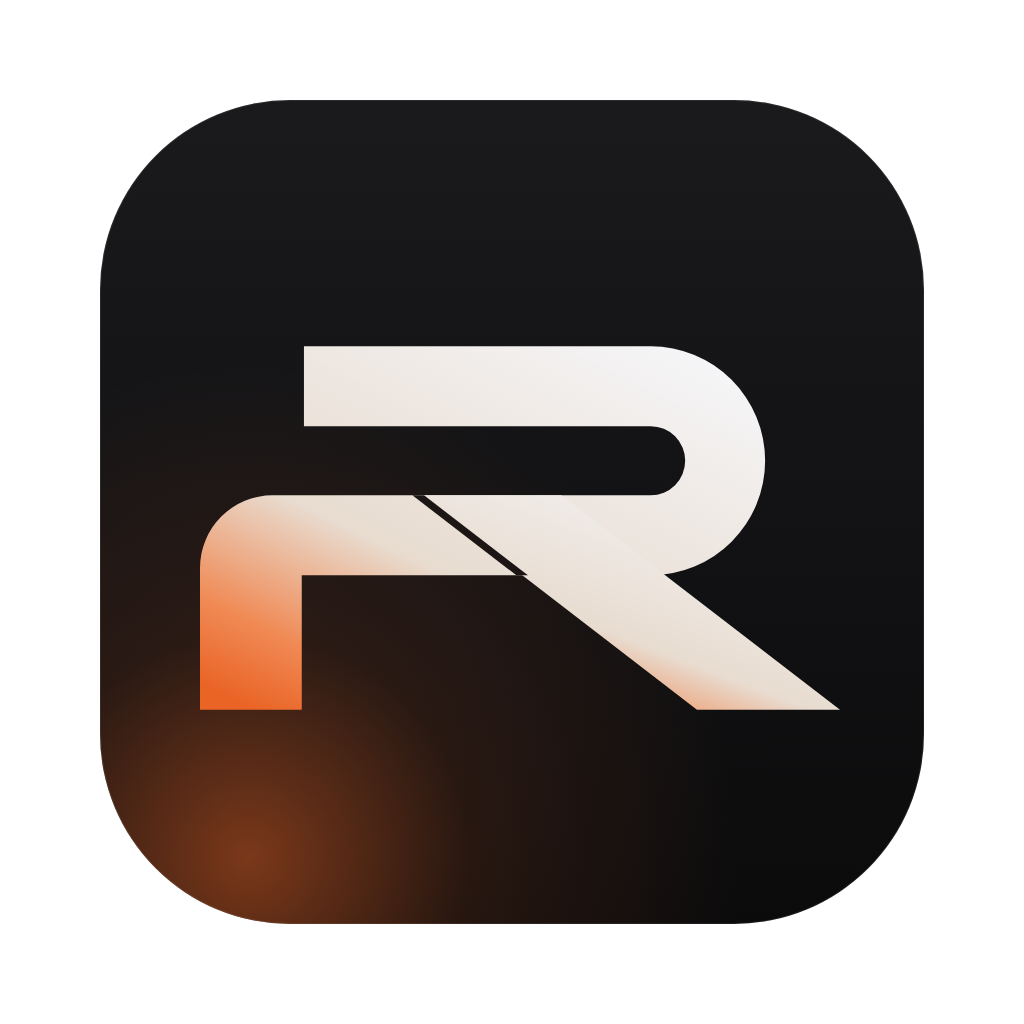
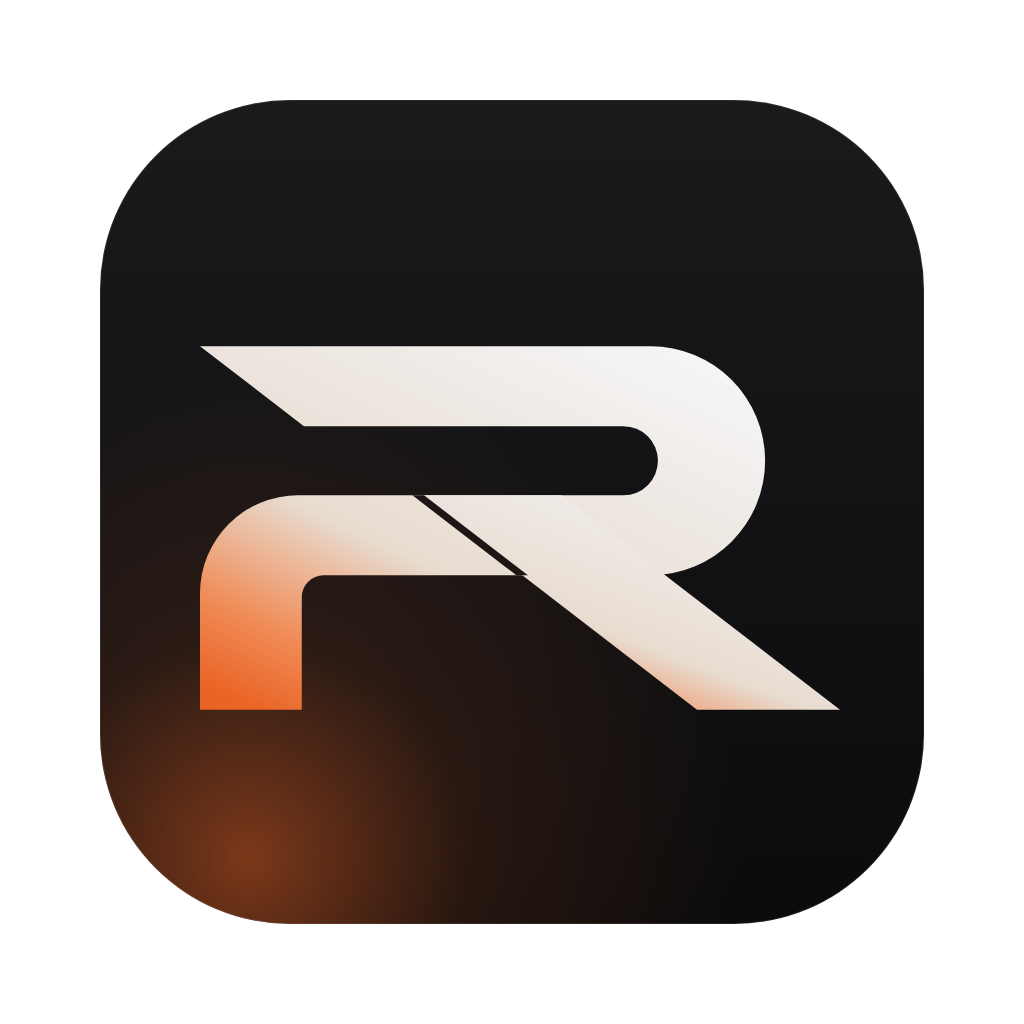
Rift Motion: o R igual à arte
A ponta de cima do R corta na diagonal (saía reta), o lado direito do bojo fica mais
grosso que as barras, o canto da haste mais redondo e um arredondado pequeno onde a
haste encontra a barra. Conferido sobrepondo o vetor à arte. Ícones, RIFT e protótipo
regerados.

Claude-Session: https://claude.ai/code/session_01EAKxGRczeQoUrK5G2TN5z1

diff --git a/products/rift-motion/prototipo.html b/products/rift-motion/prototipo.html
@@ -352,8 +352,8 @@ button { font: inherit; color: inherit; }
 <header class="nav">
   <div class="wrap nav__in">
     <a class="brand" href="#inicio" aria-label="Página inicial">
-      <span class="app-icon" aria-hidden="true"><svg class="r-mark" viewBox="-2 -2 180.1 104" aria-hidden="true"><path class="r-bojo" d="M28.6 0 L124 0 A31.5 31.5 0 0 1 124 63 L28 63 L28 100 L0 100 L0 61 A20 20 0 0 1 20 41 L124 41 A9.5 9.5 0 0 0 124 22 L28.6 22 Z"/><path class="r-perna" d="M60.04 41 L99.4 41 L176.1 100 L136.74 100 Z"/></svg></span>
-      <svg class="rift-wm" viewBox="-2 -2 480.1 104" role="img" aria-label="Rift Motion"><defs><mask id="riftFenda" maskUnits="userSpaceOnUse" x="-10" y="-10" width="496.1" height="120"><rect x="-10" y="-10" width="496.1" height="120" fill="#fff"/><path d="M58.44 41 L61.64 41 L90.24 63 L87.04 63 Z" fill="#000"/><path d="M184.1 84 C198.1 76, 210.1 30, 230.1 14" fill="none" stroke="#000" stroke-width="3.2" stroke-linecap="round"/></mask></defs><g fill="currentColor" mask="url(#riftFenda)"><path d="M28.6 0 L124 0 A31.5 31.5 0 0 1 124 63 L28 63 L28 100 L0 100 L0 61 A20 20 0 0 1 20 41 L124 41 A9.5 9.5 0 0 0 124 22 L28.6 22 Z"/><path d="M60.04 41 L99.4 41 L176.1 100 L136.74 100 Z"/><path d="M192.1 0 L220.1 0 L220.1 100 L192.1 100 Z"/><path d="M252.1 0 L476.1 0 L476.1 22 L252.1 22 Z"/><path d="M252.1 0 L280.1 0 L280.1 100 L252.1 100 Z"/><path d="M252.1 42 L346.1 42 L346.1 64 L252.1 64 Z"/><path d="M391.1 0 L419.1 0 L419.1 100 L391.1 100 Z"/></g></svg>
+      <span class="app-icon" aria-hidden="true"><svg class="r-mark" viewBox="-2 -2 180.1 104" aria-hidden="true"><path class="r-bojo" d="M0 0 L124 0 A31.5 31.5 0 0 1 124 63 L34 63 A6 6 0 0 0 28 69 L28 100 L0 100 L0 68 A27 27 0 0 1 27 41 L116.5 41 A9.5 9.5 0 0 0 116.5 22 L28.6 22 Z"/><path class="r-perna" d="M60.04 41 L99.4 41 L176.1 100 L136.74 100 Z"/></svg></span>
+      <svg class="rift-wm" viewBox="-2 -2 480.1 104" role="img" aria-label="Rift Motion"><defs><mask id="riftFenda" maskUnits="userSpaceOnUse" x="-10" y="-10" width="496.1" height="120"><rect x="-10" y="-10" width="496.1" height="120" fill="#fff"/><path d="M58.44 41 L61.64 41 L90.24 63 L87.04 63 Z" fill="#000"/><path d="M184.1 84 C198.1 76, 210.1 30, 230.1 14" fill="none" stroke="#000" stroke-width="3.2" stroke-linecap="round"/></mask></defs><g fill="currentColor" mask="url(#riftFenda)"><path d="M0 0 L124 0 A31.5 31.5 0 0 1 124 63 L34 63 A6 6 0 0 0 28 69 L28 100 L0 100 L0 68 A27 27 0 0 1 27 41 L116.5 41 A9.5 9.5 0 0 0 116.5 22 L28.6 22 Z"/><path d="M60.04 41 L99.4 41 L176.1 100 L136.74 100 Z"/><path d="M192.1 0 L220.1 0 L220.1 100 L192.1 100 Z"/><path d="M252.1 0 L476.1 0 L476.1 22 L252.1 22 Z"/><path d="M252.1 0 L280.1 0 L280.1 100 L252.1 100 Z"/><path d="M252.1 42 L346.1 42 L346.1 64 L252.1 64 Z"/><path d="M391.1 0 L419.1 0 L419.1 100 L391.1 100 Z"/></g></svg>
     </a>
     <nav class="nav__links" aria-label="Principal">
       <a href="#inicio" class="hide-sm" data-route="inicio">Início</a>
@@ -483,7 +483,7 @@ button { font: inherit; color: inherit; }
     </div>
     <div class="flow">
       <div class="flow__line" aria-hidden="true"><div class="flow__pulse"></div></div>
-      <div class="node"><div class="node__ic"><span class="app-icon" style="width:40px;height:40px;border-radius:11px"><svg class="r-mark" viewBox="-2 -2 180.1 104" aria-hidden="true"><path class="r-bojo" d="M28.6 0 L124 0 A31.5 31.5 0 0 1 124 63 L28 63 L28 100 L0 100 L0 61 A20 20 0 0 1 20 41 L124 41 A9.5 9.5 0 0 0 124 22 L28.6 22 Z"/><path class="r-perna" d="M60.04 41 L99.4 41 L176.1 100 L136.74 100 Z"/></svg></span></div><h3>Rift Motion</h3><p>Abertura · 6 s · 23,976</p></div>
+      <div class="node"><div class="node__ic"><span class="app-icon" style="width:40px;height:40px;border-radius:11px"><svg class="r-mark" viewBox="-2 -2 180.1 104" aria-hidden="true"><path class="r-bojo" d="M0 0 L124 0 A31.5 31.5 0 0 1 124 63 L34 63 A6 6 0 0 0 28 69 L28 100 L0 100 L0 68 A27 27 0 0 1 27 41 L116.5 41 A9.5 9.5 0 0 0 116.5 22 L28.6 22 Z"/><path class="r-perna" d="M60.04 41 L99.4 41 L176.1 100 L136.74 100 Z"/></svg></span></div><h3>Rift Motion</h3><p>Abertura · 6 s · 23,976</p></div>
       <div class="node"><div class="node__ic"><span class="relay-badge"><i></i></span></div><h3>Relay</h3><p>ProRes 4444 com alfa</p></div>
       <div class="node"><div class="node__ic"><span class="dot" style="width:22px;height:22px;background:linear-gradient(140deg,#0a84ff,#7c5cff)"></span></div><h3>SOBEDESCE</h3><p>Sobe pro Drive, MD5 conferido</p></div>
       <div class="node"><div class="node__ic" style="font-size:.78rem">DaVinci</div><h3>DaVinci Resolve</h3>
@@ -510,7 +510,7 @@ button { font: inherit; color: inherit; }
   <section class="login">
     <canvas id="loginCanvas" aria-hidden="true"></canvas>
     <div class="login__card">
-      <span class="app-icon login__icon" aria-hidden="true"><svg class="r-mark" viewBox="-2 -2 180.1 104" aria-hidden="true"><path class="r-bojo" d="M28.6 0 L124 0 A31.5 31.5 0 0 1 124 63 L28 63 L28 100 L0 100 L0 61 A20 20 0 0 1 20 41 L124 41 A9.5 9.5 0 0 0 124 22 L28.6 22 Z"/><path class="r-perna" d="M60.04 41 L99.4 41 L176.1 100 L136.74 100 Z"/><path class="r-fenda" d="M60.04 41 L88.64 63" fill="none"/></svg></span>
+      <span class="app-icon login__icon" aria-hidden="true"><svg class="r-mark" viewBox="-2 -2 180.1 104" aria-hidden="true"><path class="r-bojo" d="M0 0 L124 0 A31.5 31.5 0 0 1 124 63 L34 63 A6 6 0 0 0 28 69 L28 100 L0 100 L0 68 A27 27 0 0 1 27 41 L116.5 41 A9.5 9.5 0 0 0 116.5 22 L28.6 22 Z"/><path class="r-perna" d="M60.04 41 L99.4 41 L176.1 100 L136.74 100 Z"/><path class="r-fenda" d="M60.04 41 L88.64 63" fill="none"/></svg></span>
       <h1 class="t"><span>Entrar no</span><br><b class="login__name" id="loginName">Rift</b></h1>
       <p class="sub" style="font-size:.95rem">Uma conta para todo o ecossistema.</p>
       <div class="login__btns">
@@ -528,7 +528,7 @@ button { font: inherit; color: inherit; }
 <main class="view" id="v-estudio" hidden>
   <div class="studio">
     <div class="st-top">
-      <span class="app-icon" style="width:26px;height:26px;border-radius:7px" aria-hidden="true"><svg class="r-mark" viewBox="-2 -2 180.1 104" aria-hidden="true"><path class="r-bojo" d="M28.6 0 L124 0 A31.5 31.5 0 0 1 124 63 L28 63 L28 100 L0 100 L0 61 A20 20 0 0 1 20 41 L124 41 A9.5 9.5 0 0 0 124 22 L28.6 22 Z"/><path class="r-perna" d="M60.04 41 L99.4 41 L176.1 100 L136.74 100 Z"/></svg></span>
+      <span class="app-icon" style="width:26px;height:26px;border-radius:7px" aria-hidden="true"><svg class="r-mark" viewBox="-2 -2 180.1 104" aria-hidden="true"><path class="r-bojo" d="M0 0 L124 0 A31.5 31.5 0 0 1 124 63 L34 63 A6 6 0 0 0 28 69 L28 100 L0 100 L0 68 A27 27 0 0 1 27 41 L116.5 41 A9.5 9.5 0 0 0 116.5 22 L28.6 22 Z"/><path class="r-perna" d="M60.04 41 L99.4 41 L176.1 100 L136.74 100 Z"/></svg></span>
       <h2>Abertura · Campanha Verão</h2>
       <span class="meta mono">1920 × 1080 · 6 s</span>
       <span class="spacer"></span>

diff --git a/products/rift-motion/marca/vetorizar.py b/products/rift-motion/marca/vetorizar.py
@@ -41,17 +41,24 @@ XR = 124.0  # centro do bojo
 RB = 31.5  # raio de fora do bojo (bojo com 63 de altura: barra, miolo, barra)
 RI = RB - SH  # raio do miolo
 YM = 2 * RB - SH  # topo da barra do meio (41)
-CANTO = 20.0  # canto arredondado entre a barra do meio e a haste
+CANTO = 27.0  # canto arredondado entre a barra do meio e a haste (quase a largura da haste, como na arte)
+FILETE = 6.0  # arredondado pequeno entre a barra do meio (embaixo) e a haste
+MIOLO_RECUO = 7.5  # o miolo do bojo termina antes: o lado direito do bojo é mais grosso que as barras
 W_PERNA = 24 * hypot(1, K)  # largura horizontal da perna (24 na perpendicular)
 
 
 def r_partes(x0=0.0):
     """Os pedaços do R (preenchidos, mesma direção: a união sai certa com nonzero). Devolve (caminhos, largura)."""
+    # contorno: a ponta de cima corta na diagonal (de x0 no alto até x0 + SH·K embaixo da barra), o bojo dá a volta
+    # com o lado direito mais grosso que as barras (o miolo fica à esquerda do centro), volta pela barra do meio, faz o
+    # arredondado pequeno na haste e sobe com o canto grande até a barra
+    xi = x0 + XR - MIOLO_RECUO
     bojo = (
-        f'M{f(x0 + SH * K)} 0 L{f(x0 + XR)} 0 A{f(RB)} {f(RB)} 0 0 1 {f(x0 + XR)} {f(2 * RB)} '
-        f'L{f(x0 + SV)} {f(2 * RB)} L{f(x0 + SV)} {f(H)} L{f(x0)} {f(H)} L{f(x0)} {f(YM + CANTO)} '
-        f'A{f(CANTO)} {f(CANTO)} 0 0 1 {f(x0 + CANTO)} {f(YM)} L{f(x0 + XR)} {f(YM)} '
-        f'A{f(RI)} {f(RI)} 0 0 0 {f(x0 + XR)} {f(SH)} L{f(x0 + SH * K)} {f(SH)} Z'
+        f'M{f(x0)} 0 L{f(x0 + XR)} 0 A{f(RB)} {f(RB)} 0 0 1 {f(x0 + XR)} {f(2 * RB)} '
+        f'L{f(x0 + SV + FILETE)} {f(2 * RB)} A{f(FILETE)} {f(FILETE)} 0 0 0 {f(x0 + SV)} {f(2 * RB + FILETE)} '
+        f'L{f(x0 + SV)} {f(H)} L{f(x0)} {f(H)} L{f(x0)} {f(YM + CANTO)} '
+        f'A{f(CANTO)} {f(CANTO)} 0 0 1 {f(x0 + CANTO)} {f(YM)} L{f(xi)} {f(YM)} '
+        f'A{f(RI)} {f(RI)} 0 0 0 {f(xi)} {f(SH)} L{f(x0 + SH * K)} {f(SH)} Z'
     )
     # a borda direita da perna sai do fim do bojo (XR + 4 no y = 63) e desce na inclinação K
     dir_meio = x0 + XR + 4
